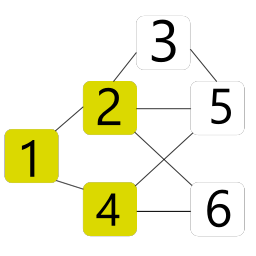
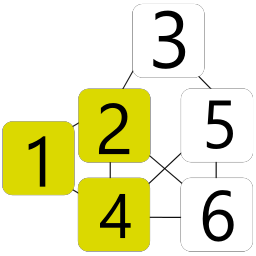
V 5. Creo que el grafo esta listo

Changed region(s): [[0.0, 0.0312, 1.0, 1.0]]

diff --git a/Greedy_Clique/src/controller/Controller.java b/Greedy_Clique/src/controller/Controller.java
@@ -7,6 +7,7 @@ import java.util.Set;
 
 import javax.swing.JButton;
 import javax.swing.JComboBox;
+import javax.swing.JTextArea;
 
 import org.jgrapht.graph.DefaultEdge;
 import org.jgrapht.graph.SimpleWeightedGraph;
@@ -23,6 +24,7 @@ public class Controller {
     private Main_View MainView;
     private Clique_Graph_View cliqueGraphView;
     private Graph graph;
+    private Clique_Problem_Maximun cliqueProblemMaximun;
 
 
     private JComboBox<Integer> vertexCountComboBox;
@@ -32,14 +34,26 @@ public class Controller {
     private List<JComboBox<Integer>> listComboBoxWeight;
     private JButton generateButtonForVertexWeight;
 
-    public Controller(Main_View MainView, Clique_Graph_View cliqueGraphView, Graph graph){
-        this.MainView=MainView;
-        this.cliqueGraphView=cliqueGraphView;
-        this.graph=graph;
+
+    private JTextArea edgesTextArea;
+    private JButton generateButtonGraph;
+    private JButton generateButtonAlgorithm;
+
+
+    private Set<Vertex> clique;
+
+    private mxGraph mxGraph;
+
+    private SimpleWeightedGraph<Vertex, DefaultEdge> jGraphTGraph;
+    private Object parent;
+
+    public Controller(Main_View MainView, Clique_Graph_View cliqueGraphView, Graph graph, Clique_Problem_Maximun cliqueProblemMaximun){
+        this.MainView = MainView;
+        this.cliqueGraphView = cliqueGraphView;
+        this.graph = graph;
+        this.cliqueProblemMaximun =cliqueProblemMaximun;
         attachListenersButton();
         attachListenersButtonToLoadGraph();
-        graph = testGraph();
-        makeTheGrap(graph);
     }
 
     private void attachListenersButton() {
@@ -70,6 +84,54 @@ public class Controller {
     }
 
     private void attachListenersEdges() {
+        edgesTextArea = cliqueGraphView.getEdgesTextArea();
+        generateButtonGraph = cliqueGraphView.getGenerateButtonGraph();
+        generateButtonAlgorithm = cliqueGraphView.getGenerateButtonAlgorithm();
+
+        generateButtonGraph.addActionListener(e -> {
+            // Agarra el texto
+            String edgesText = edgesTextArea.getText();
+        
+            // Lo separa por comas
+            String[] textEdge = edgesText.split(",");
+        
+            for (String edge : textEdge) {
+                // Lo separa por comas
+                String[] nodes = edge.trim().split("-");
+            
+                if (nodes.length == 2) {
+                    try {
+                        Integer node1 = Integer.parseInt(nodes[0].trim());
+                        Integer node2 = Integer.parseInt(nodes[1].trim());
+                        // agrega Arista
+                        graph.addEdge(node1, node2);
+                    } catch (NumberFormatException ex) {
+                        // En caso de error lanza error
+                        System.err.println("Formato Invalido: " + edge);
+                    }
+                } else {
+                    // En caso de error lanza error
+                    System.err.println("Formato Invalido: " + edge);
+                }
+            }
+
+            generateButtonGraph.setEnabled(false);
+            makeTheGrap(graph);
+            generateButtonAlgorithm.setEnabled(true);
+
+        });
+
+        generateButtonAlgorithm.addActionListener(e -> {
+            clique = cliqueProblemMaximun.findCliqueMaxima(graph);
+            Integer pesoTotal = clique.stream().mapToInt(n -> n.getWeight()).sum();
+
+            System.out.println("Clique de máximo peso encontrada: " + clique);
+            System.out.println("Peso total: " + pesoTotal);
+            cliqueGraphView.prepareThePanel();
+            makeTheGrap(graph);
+            // finalGraph();
+            
+        });
 
     }
 
@@ -77,34 +139,11 @@ public class Controller {
         
     }
 
-    private Graph testGraph() {
-        Graph grafo = new Graph();
-        grafo.addVertex(1, 11);
-        grafo.addVertex(2, 5);
-        grafo.addVertex(3, 1);
-        grafo.addVertex(4, 7);
-        grafo.addVertex(5, 3);
-        grafo.addVertex(6, 4);
-        
-
-        grafo.addEdge(1, 2);
-        grafo.addEdge(1, 4);
-        grafo.addEdge(2, 3);
-        grafo.addEdge(2, 4);
-        grafo.addEdge(2, 5);
-        grafo.addEdge(2, 6);
-        grafo.addEdge(3, 5);
-        grafo.addEdge(4, 5);
-        grafo.addEdge(4, 6);
-        grafo.addEdge(5, 6);
-
-        return grafo;
-    }
-
     private void makeTheGrap(Graph graph) {
 
         //Esto es para que se genere el grafo
-        SimpleWeightedGraph<Vertex, DefaultEdge> jGraphTGraph = new SimpleWeightedGraph<>(DefaultEdge.class);
+        
+        jGraphTGraph = new SimpleWeightedGraph<>(DefaultEdge.class);
 
         for (Vertex vertexGraph : graph.getVertex().values()) {
             jGraphTGraph.addVertex(vertexGraph);
@@ -116,15 +155,15 @@ public class Controller {
                 jGraphTGraph.addEdge(source, target);
             }
         }
-        Clique_Problem_Maximun cliqueProblemMaximun = new Clique_Problem_Maximun();
 
-        Set<Vertex> clique = cliqueProblemMaximun.findCliqueMaxima(graph);
-        Integer pesoTotal = clique.stream().mapToInt(n -> n.getWeight()).sum();
-        System.out.println("Clique de máximo peso encontrada: " + clique);
-        System.out.println("Peso total: " + pesoTotal);
+        // clique = cliqueProblemMaximun.findCliqueMaxima(graph);
+        // Integer pesoTotal = clique.stream().mapToInt(n -> n.getWeight()).sum();
 
-        mxGraph mxGraph = new mxGraph();
-        Object parent = mxGraph.getDefaultParent();
+        // System.out.println("Clique de máximo peso encontrada: " + clique);
+        // System.out.println("Peso total: " + pesoTotal);
+
+        mxGraph = new mxGraph();
+        parent = mxGraph.getDefaultParent();
 
         String vertexStyle = ";rounded=1;";
         String edgeStyle = "edgeStyle=elbowEdgeStyle;endArrow=none;";
@@ -133,9 +172,16 @@ public class Controller {
         try {
             Map<Vertex, Object> vertexMap = new HashMap<>();
             for (Vertex vertexGraph : jGraphTGraph.vertexSet()) {
-                Object v = mxGraph.insertVertex(parent, null, vertexGraph.getId() + " (" + vertexGraph.getWeight() + ")", 0, 0, 50, 50,
+                if(clique == null){
+                    System.out.println(clique == null);
+                    Object v = mxGraph.insertVertex(parent, null, vertexGraph.getId() + " (" + vertexGraph.getWeight() + ")", 0, 0, 50, 50,
+                        "fillColor=white" + vertexStyle);
+                    vertexMap.put(vertexGraph, v);
+                } else {
+                    Object v = mxGraph.insertVertex(parent, null, vertexGraph.getId() + " (" + vertexGraph.getWeight() + ")", 0, 0, 50, 50,
                         (clique.contains(vertexGraph) ? "fillColor=yellow" : "fillColor=white") + vertexStyle);
-                vertexMap.put(vertexGraph, v);
+                    vertexMap.put(vertexGraph, v);
+                }
             }
 
             for (DefaultEdge edge : jGraphTGraph.edgeSet()) {

diff --git a/Greedy_Clique/src/view/Clique_Graph_View.java b/Greedy_Clique/src/view/Clique_Graph_View.java
@@ -47,14 +47,13 @@ public class Clique_Graph_View extends JPanel{
     private List<JComboBox<Integer>> listComboBoxWeight;
     private JButton generateButtonForVertexWeight;
 
+    private JPanel panelEdgesForTheUser;
     private JTextArea edgesTextArea;
     private JButton generateButtonGraph;
-
-
-    private JPanel panelEdgesForTheUser;
     private JButton generateButtonAlgorithm;
 
 
+    private mxGraphComponent graphComponent;
 
     public Clique_Graph_View(int width, int height) {
         this.width = width;
@@ -220,6 +219,7 @@ public class Clique_Graph_View extends JPanel{
 
         generateButtonAlgorithm = new JButton("Generar grafo con el Algoritmo");
         generateButtonAlgorithm.setBounds(150, 150, 225, 30);
+        generateButtonAlgorithm.setEnabled(false);
         panelEdgesForTheUser.add(generateButtonAlgorithm);
 
         revalidate();
@@ -227,8 +227,23 @@ public class Clique_Graph_View extends JPanel{
         
     }
 
+    public void prepareThePanel() {
+        if (panelGraph != null) {
+            panelGraph.removeAll();
+        }
+        if (graphComponent != null) {
+            graphComponent.removeAll();
+            graphComponent.revalidate();
+            graphComponent.repaint();
+        }
+        panelGraph.revalidate();
+        panelGraph.repaint();
+        revalidate();
+        repaint();
+    }
+
     public void makeTheGraph(mxGraph graph) {
-        mxGraphComponent graphComponent = new mxGraphComponent(graph);
+        graphComponent = new mxGraphComponent(graph);
         graphComponent.setConnectable(false); //Esto es solo para deshabilitar la opcion de crear aristas haciendo click izquierdo
         graphComponent.getViewport().setOpaque(true);
         graphComponent.getViewport().setBackground(Color.BLACK); //Esta la manera de cambiar el color del fondo, lo dejo aqui si se quiere.
@@ -242,6 +257,11 @@ public class Clique_Graph_View extends JPanel{
         layout.setY0(50); //Ajuste de la position Y para que no este tan arriba
         layout.setRadius(Math.min((width/2) -50, height) / 2); // Ajusta el radio del layout para ocupar más espacio
         layout.execute(graph.getDefaultParent());
+
+        graphComponent.refresh();
+
+        panelGraph.revalidate();
+        panelGraph.repaint();
 
         revalidate();
         repaint();
@@ -261,6 +281,18 @@ public class Clique_Graph_View extends JPanel{
 
     public JButton getGenerateButtonForVertexWeight() {
         return generateButtonForVertexWeight;
+    }
+
+    public JTextArea getEdgesTextArea() {
+        return edgesTextArea;
+    }
+
+    public JButton getGenerateButtonGraph() {
+        return generateButtonGraph;
+    }
+
+    public JButton getGenerateButtonAlgorithm() {
+        return generateButtonAlgorithm;
     }
 
 }

diff --git a/Greedy_Clique/src/main/Main.java b/Greedy_Clique/src/main/Main.java
@@ -2,6 +2,7 @@ package main;
 
 import controller.Controller;
 import graph_model.Graph;
+import model.Clique_Problem_Maximun;
 import view.Main_View;
 
 public class Main {
@@ -9,7 +10,8 @@ public class Main {
     public static void main(String[] args) {
         Main_View view = new Main_View();
         Graph graph = new Graph();
-        Controller controller = new Controller(view, view.getCliqueGraphView(), graph);
+        Clique_Problem_Maximun cliqueProblemMaximun = new Clique_Problem_Maximun();
+        Controller controller = new Controller(view, view.getCliqueGraphView(), graph, cliqueProblemMaximun);
     }
 
 }
